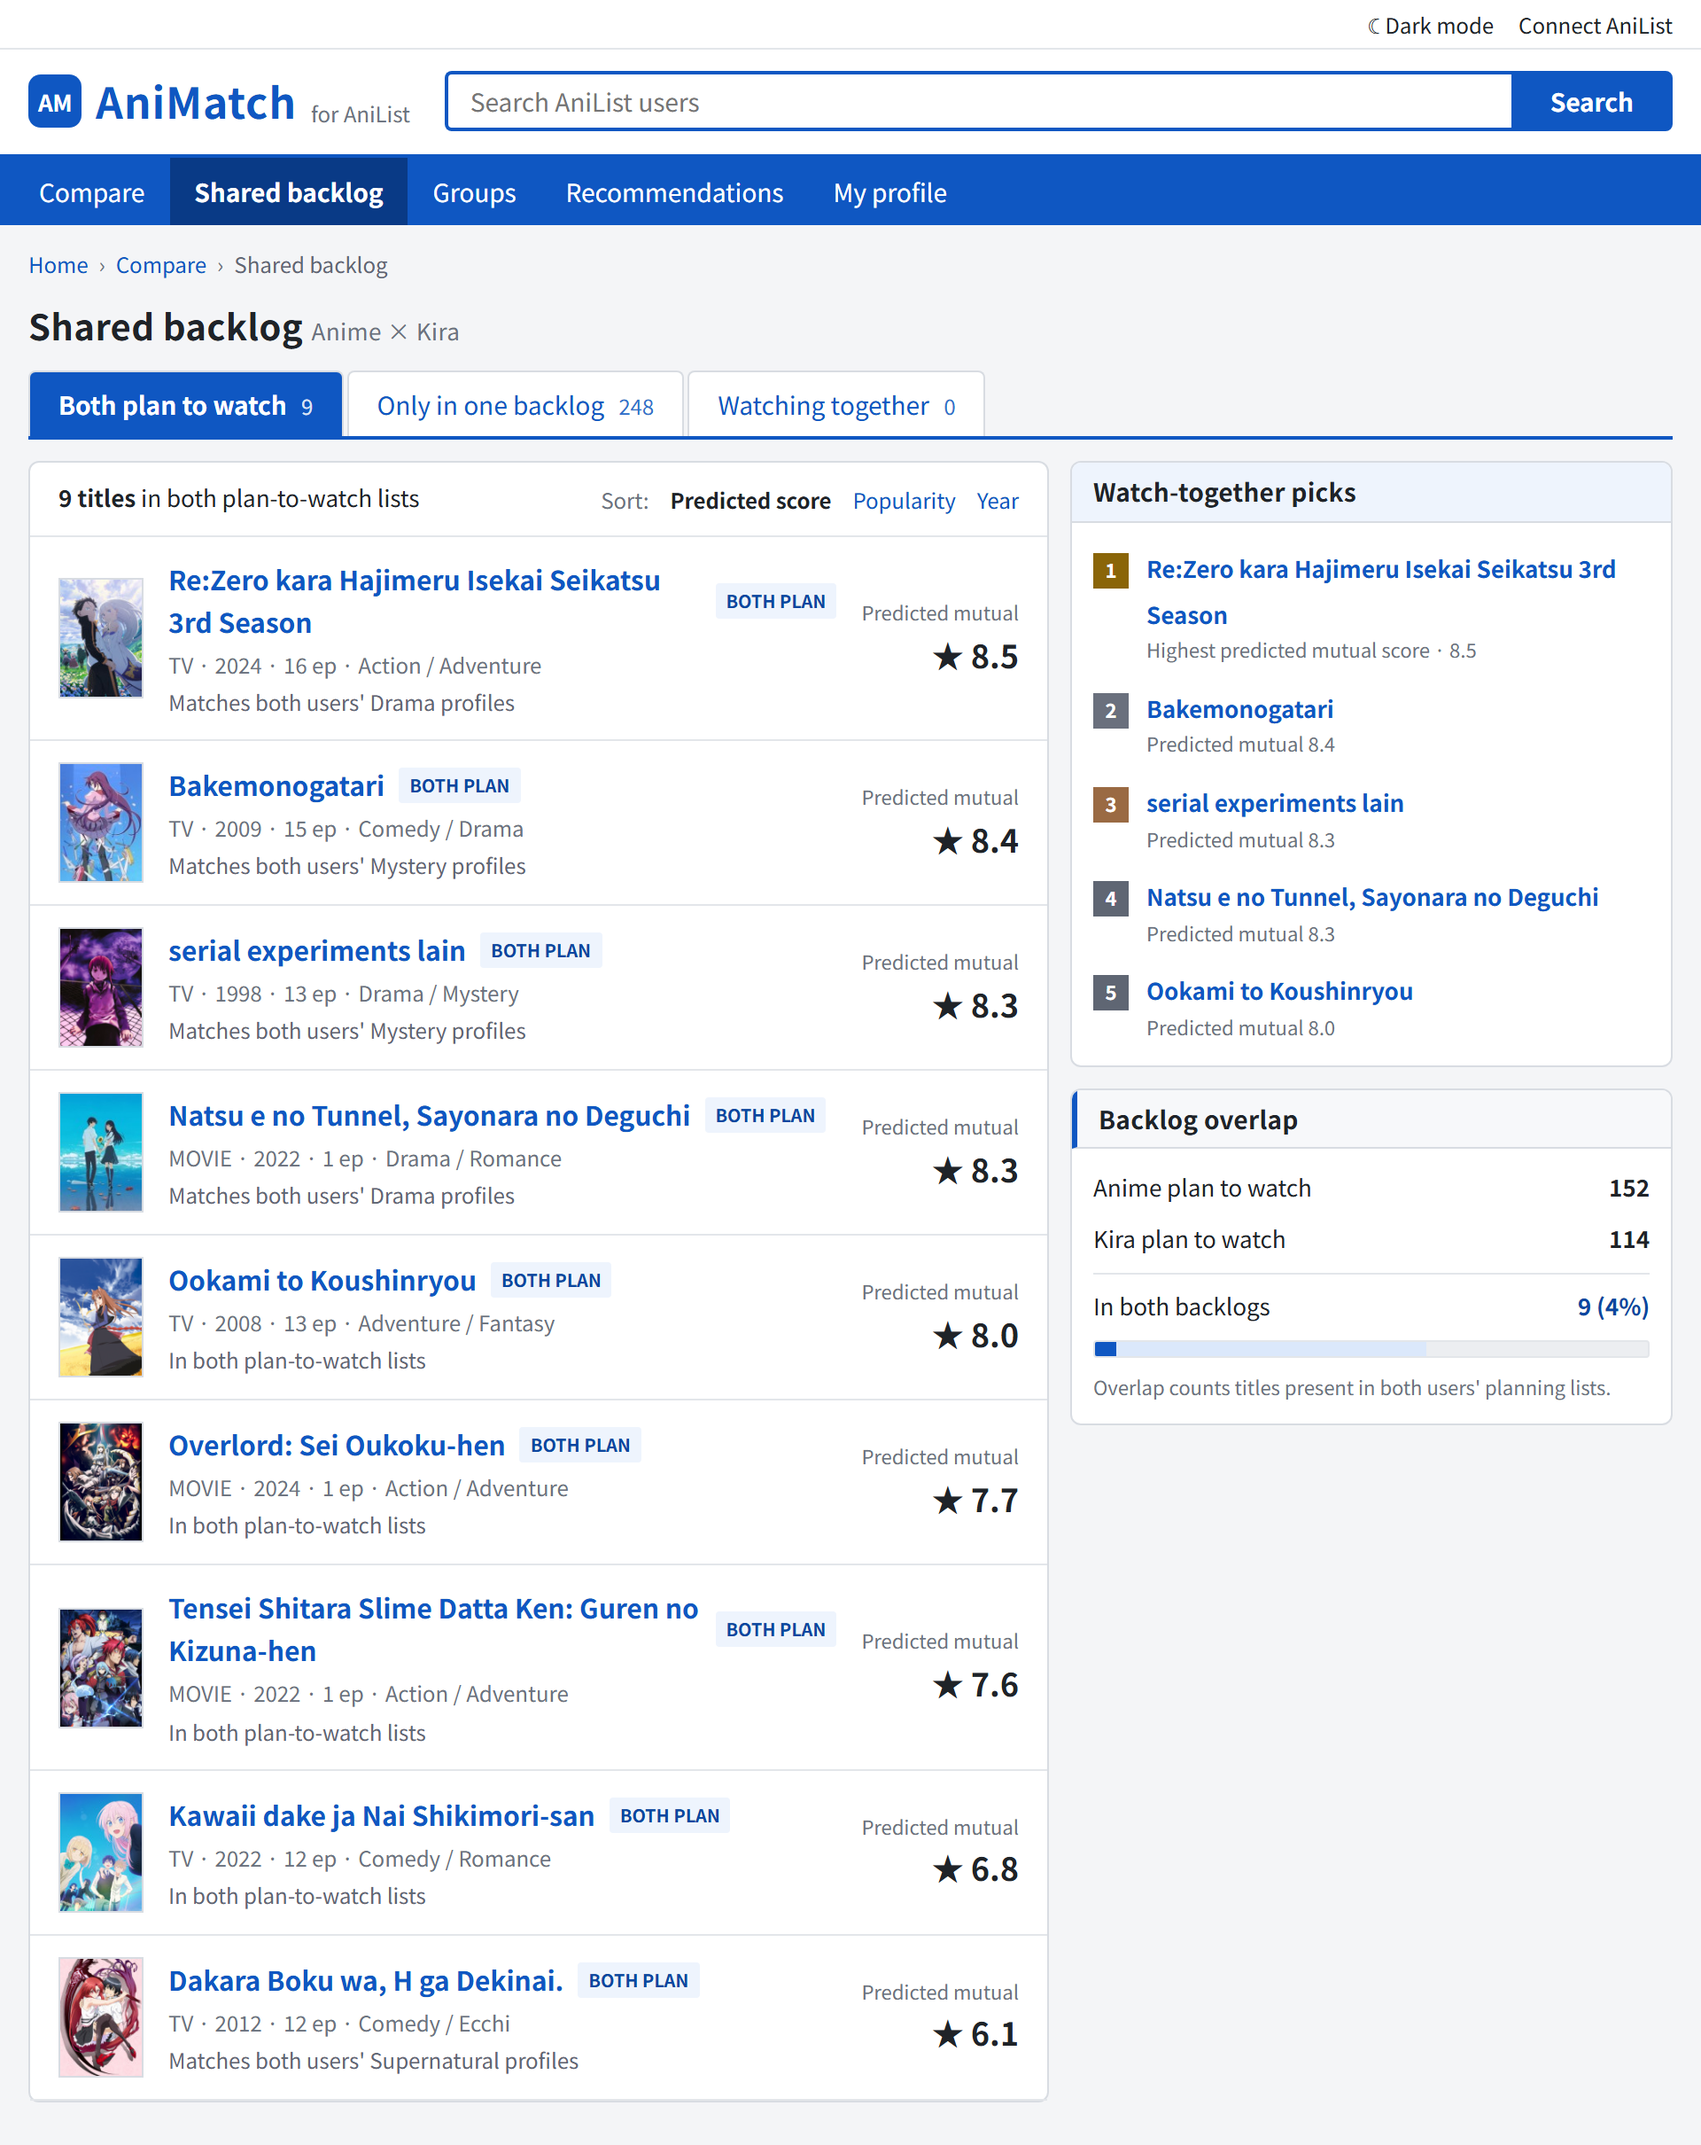
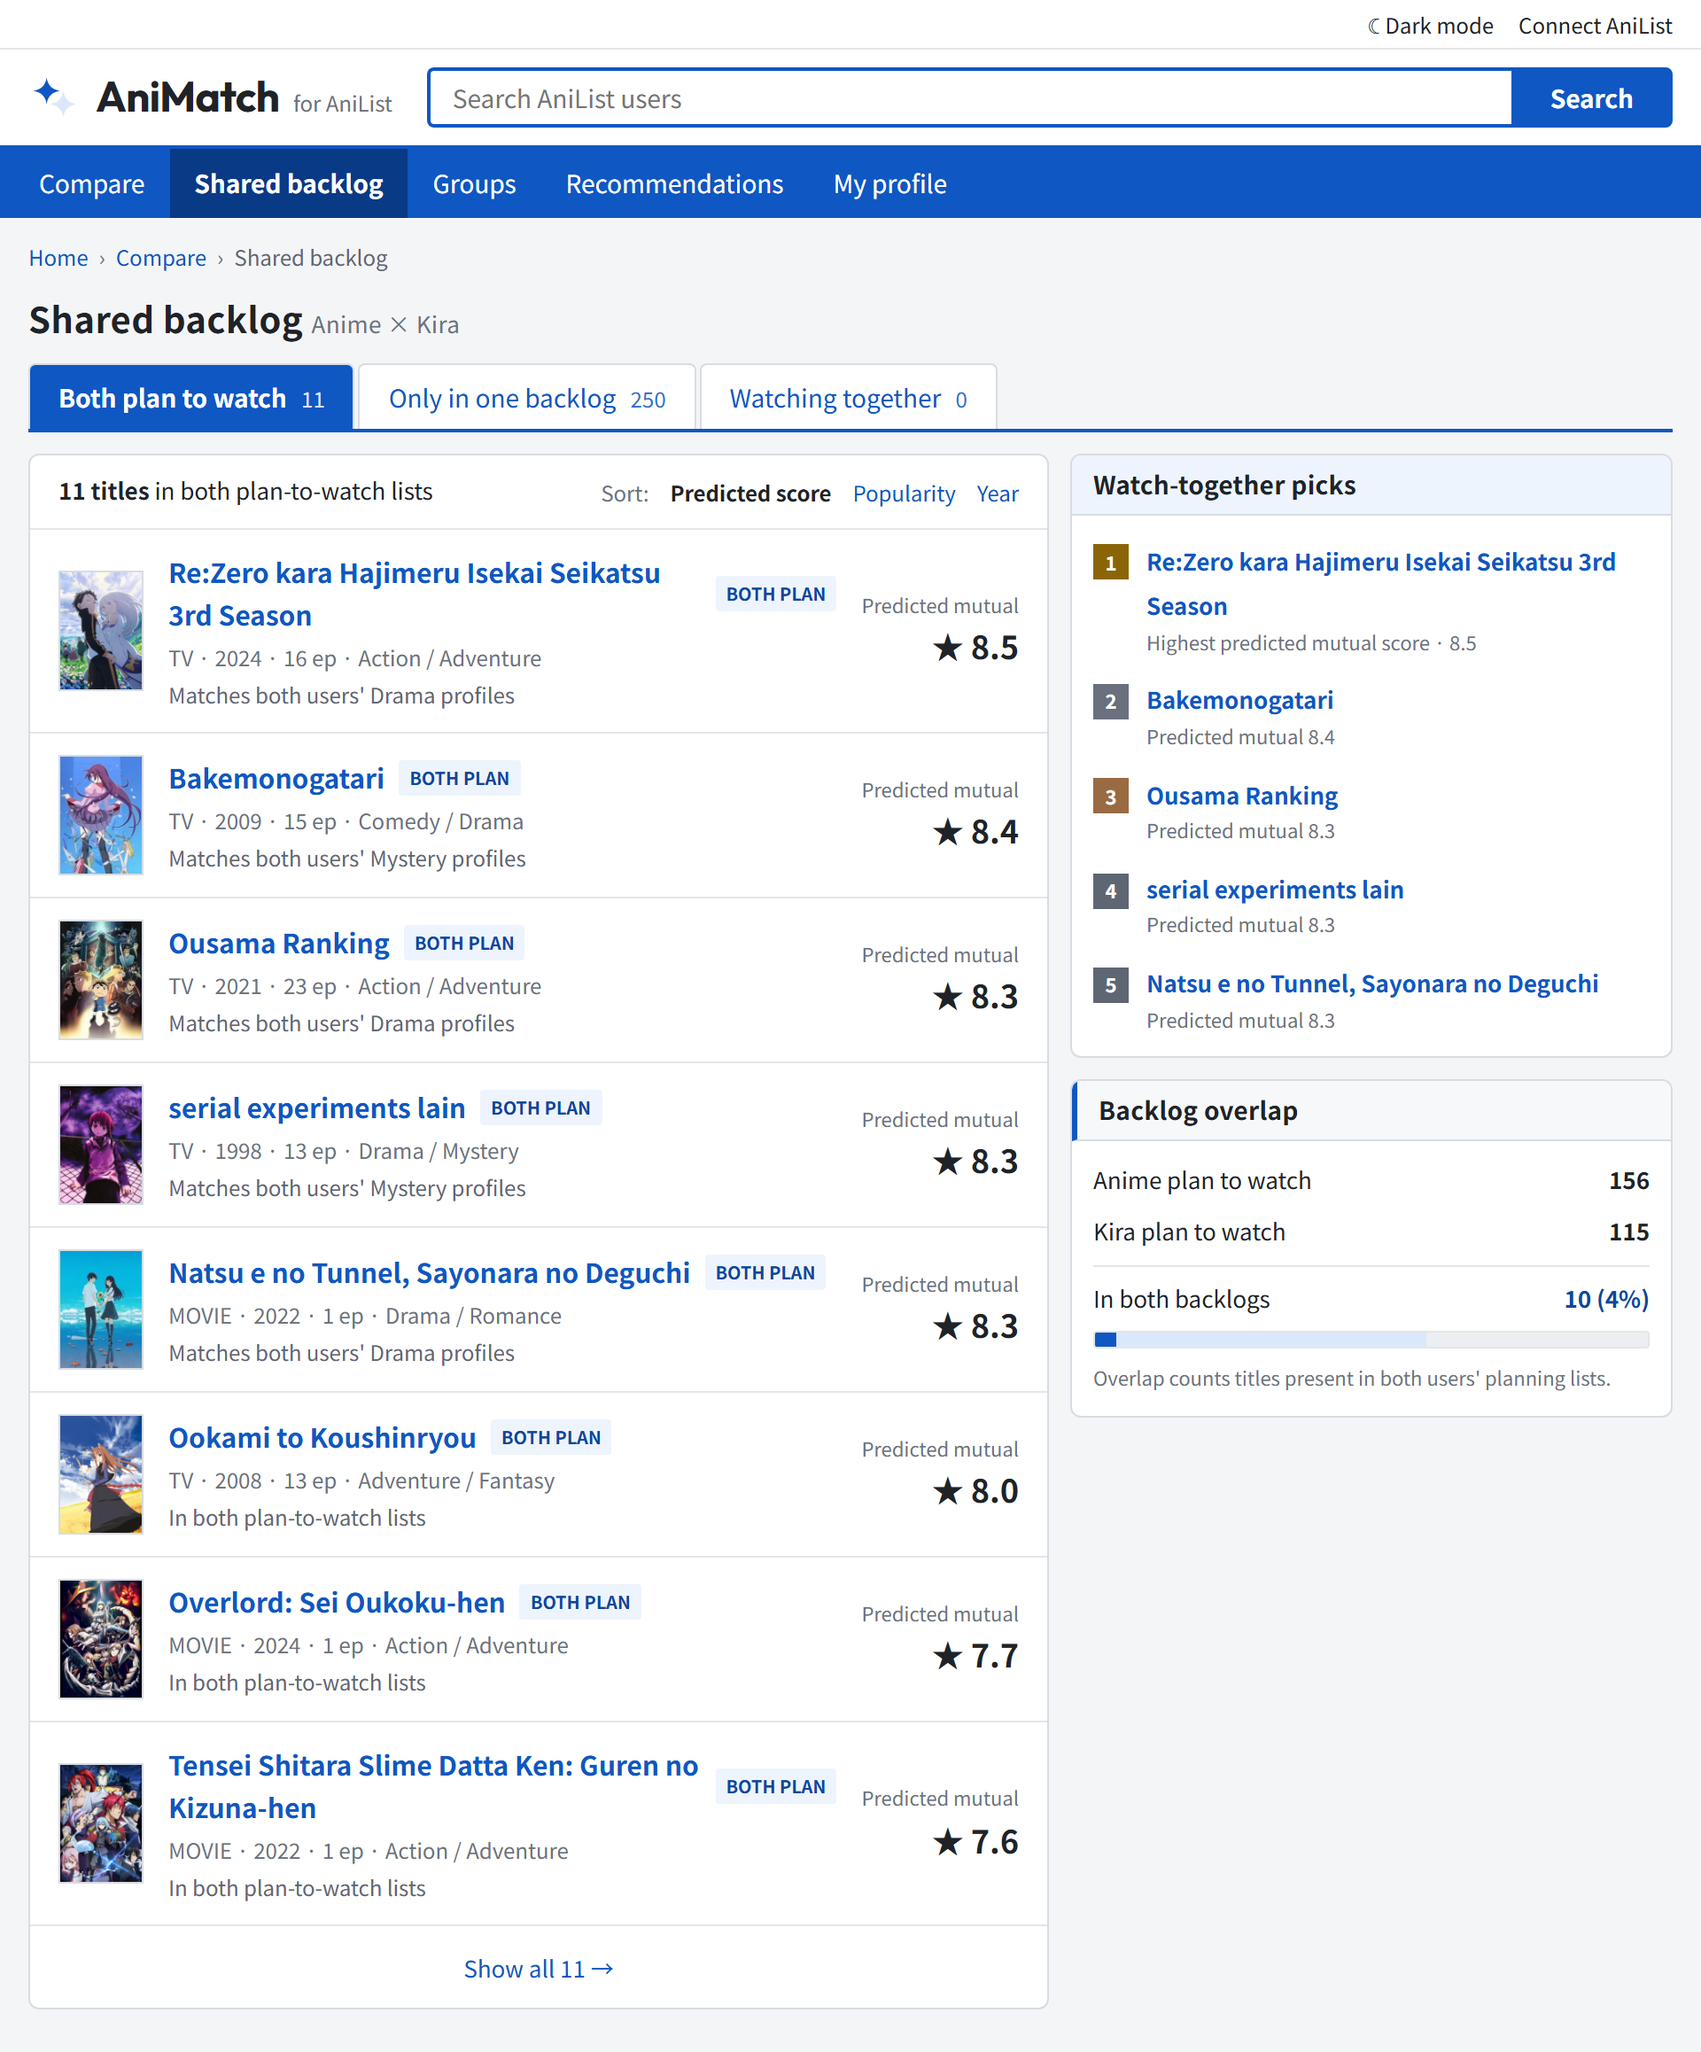
docs(readme): match the format of the other projects
Lockup header, hook, status, how the score works, what it does, privacy
promises, development and license. Screenshots regenerated with the new
header, plus a dark compare shot for the README's dark-mode picture.

diff --git a/README.md b/README.md
@@ -1,51 +1,119 @@
-<p align="center"><img src="public/icon-192.png" width="96" alt="AniMatch logo"></p>
+<h1>
+  <picture>
+    <source media="(prefers-color-scheme: dark)" srcset="docs/brand/lockup-dark.svg">
+    <img alt="AniMatch" src="docs/brand/lockup.svg" height="40">
+  </picture>
+</h1>
 
-<h1 align="center">AniMatch</h1>
+**Find out if you and a friend actually share taste in anime.** Enter two AniList usernames.
+AniMatch scores how compatible your taste is, shows where you disagree, and picks what to watch
+together.
 
-<p align="center"><strong><a href="https://animatch-moe.vercel.app">animatch-moe.vercel.app</a></strong></p>
+Comparing taste on AniList usually means opening two profiles side by side and scrolling. Which
+shows did you both finish? Does your 7 mean the same as their 9? What's on both of your
+plan-to-watch lists? AniMatch reads both public lists and answers all three on one page. It also
+works for a whole group of friends.
 
-Compare anime taste between [AniList](https://anilist.co) users. One place that answers: **how compatible are we, where do we disagree, and what should we watch together?**
+> **Status:** live at [animatch-moe.vercel.app](https://animatch-moe.vercel.app). Compare,
+> shared backlog, groups and recommendations all run on real AniList data. Next is a session
+> planner for shared backlogs. See [ROADMAP.md](ROADMAP.md).
 
-![Compare — head-to-head](docs/screenshots/compare.png)
+<picture>
+  <source media="(prefers-color-scheme: dark)" srcset="docs/screenshots/compare-dark.png">
+  <img alt="The compare page for Anime × Kira: a 39/100 taste match, the compatibility breakdown, their biggest disagreements, the shared anime they both scored, score distributions and genre taste profiles" src="docs/screenshots/compare.png">
+</picture>
 
-## ✨ Features
+## Try it
 
-- ⚖ **Head-to-head compare** — a 0–100 taste match score broken down into score correlation, genre overlap, completed overlap, and studio affinity.
-- 💥 **Biggest disagreements** — the titles you two scored furthest apart, with per-user scores and delta badges.
-- 📊 **Score distributions & genre profiles** — side-by-side histograms and per-genre bars, with a radar-spread toggle.
-- 🎯 **Recommendations** — top picks neither of you has listed, ranked by predicted mutual enjoyment with a reason per pick.
-- 📚 **Shared backlog** — titles in both plan-to-watch lists, ranked by predicted mutual score, with watch-together picks.
-- 👥 **Groups** — member stats, a pairwise taste-match heat matrix, and the backlog shared by the whole group. Save named groups to reopen them anytime.
-- 📱 **Mobile layout** — compact summary view with bottom navigation under 720px.
-- 🪪 **Profiles & sign-in** — view any public profile's stats (score distribution, genre taste, top studios), or connect your own AniList account via OAuth. Recent comparisons and groups persist locally.
-- 🌙 **Dark mode** — follows your OS by default, with a sun/moon toggle; the full token set is contrast-validated in both themes.
+Open [animatch-moe.vercel.app](https://animatch-moe.vercel.app) and enter two usernames. Any
+public AniList profile works, and you don't need an account. For a sample, see
+[Anime × Kira](https://animatch-moe.vercel.app/compare?a=Anime&b=Kira).
+
+## How it works
+
+```text
+animatch-moe.vercel.app/compare?a=Anime&b=Kira
+
+Anime × Kira · 39/100 · Some common ground
+
+                    value  weight
+score correlation    0.10     45%   Pearson r on the 64 titles both scored
+genre overlap         96%     30%   cosine similarity of their genre mix
+completed overlap     14%     15%   65 of 474 completed titles are shared
+studio affinity       40%     10%   studios both rate highly
+```
+
+The score is the weighted sum: 0.45 × 10 + 0.30 × 96 + 0.15 × 14 + 0.10 × 40 = 39. Agreeing on
+scores counts most. Two people who watch the same genres but rate them differently still score
+low, so this pair lands at 39 despite 96% genre overlap. Every comparison has its own link, so you
+can send it to the other person.
+
+## What it does
+
+- **Scores** any two AniList users from 0 to 100, with the breakdown above.
+- **Finds** your biggest disagreements: the titles you two scored furthest apart.
+- **Compares** score distributions and genre taste side by side, as bars or a radar chart.
+- **Recommends** popular, highly rated titles neither of you has listed, ranked by how much you
+  would both enjoy them, with a reason for each pick.
+- **Merges** your plan-to-watch lists into a shared backlog, ranked by predicted mutual score.
+- **Groups** friends: stats for each member, a taste-match grid for every pair, and the backlog
+  the whole group shares. Save a group under a name to reopen it later.
+- **Shares** a comparison as an image card, ready to paste into a chat or save.
+- **Signs in** with AniList (optional) so your own profile fills in automatically.
+- **Fits** phones and follows your system's dark mode.
 
 | Shared backlog | Groups |
 | --- | --- |
-| ![Shared backlog](docs/screenshots/backlog.png) | ![Groups](docs/screenshots/groups.png) |
+| ![The shared backlog: titles on both plan-to-watch lists, ranked by predicted mutual score](docs/screenshots/backlog.png) | ![The groups page: member stats, a pairwise taste-match grid and the group's shared backlog](docs/screenshots/groups.png) |
 
 | Recommendations | Mobile |
 | --- | --- |
-| ![Recommendations](docs/screenshots/recommendations.png) | ![Mobile](docs/screenshots/compare-mobile.png) |
+| ![Recommendations: titles neither user has listed, with a predicted score and a reason for each](docs/screenshots/recommendations.png) | ![The compare page on a phone](docs/screenshots/compare-mobile.png) |
 
-## 🛠 Stack
+## Your lists stay yours
 
-- **Angular 22** — standalone components, signals, typed routes.
-- **Hikari design system** — an information-dense, portal-style design language ported as CSS tokens (`src/styles/tokens/`) and reusable components (`src/app/ui/`).
-- **AniList GraphQL** — public API, no auth: full lists (completed, planning, watching), user search, avatars, and cover art. Compare via `/compare?a=<user>&b=<user>`, groups via `/groups?users=<a,b,c>`; the design mockup's data shows as a demo until real users are loaded. See [ROADMAP.md](ROADMAP.md) for what's next.
+- **No AniMatch server.** The site is static files. Your browser loads lists straight from
+  AniList's public API.
+- **Read-only.** AniMatch never changes anything on your AniList account.
+- **Kept in your browser.** Recent comparisons, saved groups and the optional sign-in token are
+  stored in your browser only. The token is sent only to AniList.
+- **No analytics** and no tracking.
+- **Open source**, so you can check all of this.
 
-## 🚀 Getting started
+## Development
 
-```bash
+You need Node 24.
+
+```sh
 npm install
-npm start        # dev server on http://localhost:4200
-npm run build    # production build to dist/
-npm test         # unit tests (vitest)
-npm run e2e      # end-to-end tests (playwright, starts its own dev server)
+npm start                   # dev server on http://localhost:4200
+npm test                    # unit tests (Vitest)
+npm run e2e                 # end-to-end tests (Playwright, starts its own server)
+npm run build               # production build to dist/
+node scripts/screenshots.mjs  # regenerate docs/screenshots (needs npm start -- --port 4213)
 ```
 
-## ☁ Deploy
+It's an Angular 22 app. It uses standalone components and signals, and gets its data from the
+AniList GraphQL API. The UI is built on the Hikari design system, whose CSS tokens live in
+`src/styles/tokens/` and components in `src/app/ui/`. CI runs the build and both test suites on
+pushes to `main` and on pull requests. Vercel deploys `main`, and `vercel.json` handles the SPA
+rewrites.
 
-Built for [Vercel](https://vercel.com) — import the repo at vercel.com/new and the included `vercel.json` handles the SPA rewrites and output directory. CI (build + unit + e2e) runs on every push via GitHub Actions.
+The logo and lockups are in [docs/brand](docs/brand).
 
-To enable one-click "Connect AniList" (site owner, once): register an API client at [anilist.co/settings/developer](https://anilist.co/settings/developer) with redirect URL `https://<your-domain>/auth/callback` and set the client ID in `src/app/anilist.config.ts`. End users then just click Connect → approve → done.
+### Your own AniList client
+
+Signing in needs a registered AniList API client. The live site has one. For a fork, register
+your own at [anilist.co/settings/developer](https://anilist.co/settings/developer) with the
+redirect URL `https://<your-domain>/auth/callback`. Then set `ANILIST_CLIENT_ID` in
+`src/app/anilist.config.ts`. The client ID is public by design, because the implicit grant flow
+uses no secret.
+
+## Contributing
+
+Issues and pull requests are welcome. The next unchecked item in [ROADMAP.md](ROADMAP.md) is
+what's being built.
+
+## License
+
+[MIT](LICENSE)
